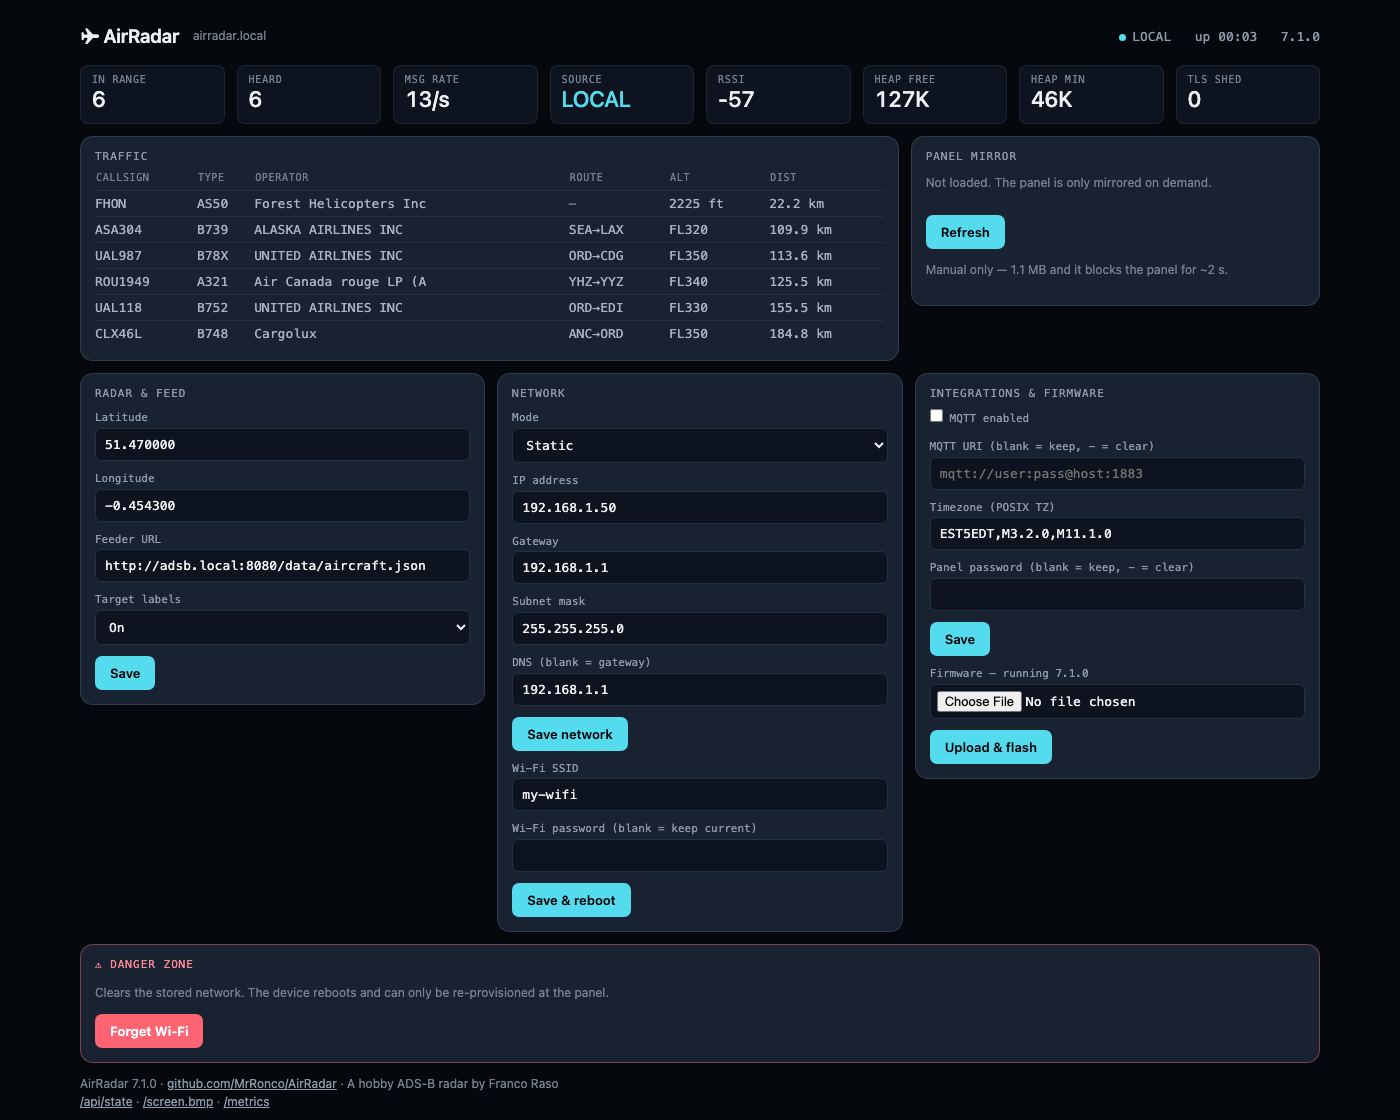
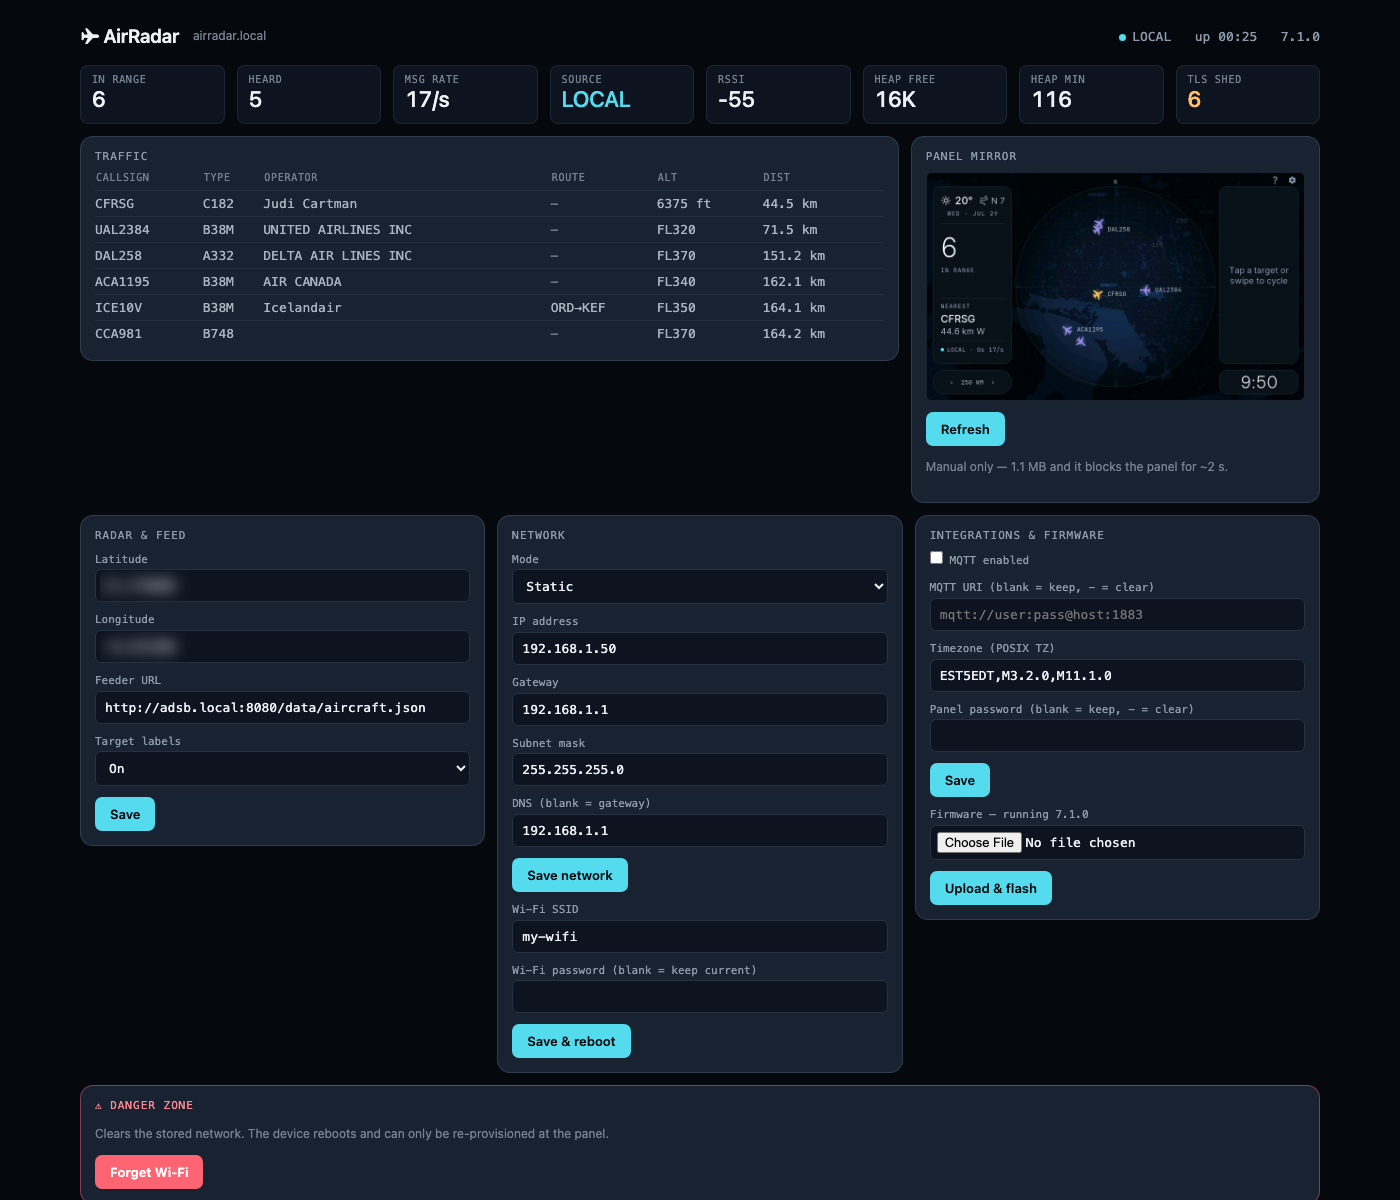
docs: expand hardware, credit Claude, retake console shot with the mirror
Hardware becomes a real section: what the Waveshare ESP32-S3-Touch-LCD-7 is,
why the RGB-parallel bus and 8 MB of PSRAM are the deciding specs rather than
incidental ones, the four quirks worth knowing before buying, and a purchase
link slot for the owner's referral URL.

Adds a "Built with Claude" section. The project was largely implemented with
Claude Code and says so plainly, including the three heap hypotheses that were
confidently wrong. The diagnostic endpoints exist because the firmware had to
be debuggable by something that cannot look at the screen.

Console screenshot retaken with the panel mirror loaded and the coordinate
fields blurred.

Also corrects the roadmap's claim that the heap drain was "neutralised". A
device measured at 27 minutes of uptime sits at 17 KB free with an 8.7 KB
largest block -- below what an mbedTLS handshake needs -- so optional TLS
fetches are shed from then on. The flash caches hide the impact; they do not
remove it. The README now states the real failure mode and what still works.

diff --git a/README.md b/README.md
@@ -71,7 +71,9 @@ phone app — it assumes a desktop and lays out on a fixed 1240 px grid.
 
 <div align="center">
 
-<img src="docs/img/web-console.png" width="880" alt="The AirRadar web console: a status strip of eight live tiles, a traffic table, and configuration forms for radar, network and integrations">
+<img src="docs/img/web-console.png" width="880" alt="The AirRadar web console: a status strip of eight live tiles, a traffic table, the panel mirror, and configuration forms for radar, network and integrations">
+
+<sub>Live, with the panel mirror loaded. Coordinates are blurred; the heap tiles show a device 30 minutes into a boot — see the <a href="#roadmap">known heap drain</a>.</sub>
 
 </div>
 
@@ -110,21 +112,69 @@ class appear in Home Assistant with no YAML.
 
 ## Hardware
 
-One board. Nothing to solder.
+One board. Nothing to solder, nothing to wire, no enclosure required to get started.
 
-| Part | Notes |
+### The Waveshare ESP32-S3-Touch-LCD-7
+
+> **[Buy the board →](https://www.waveshare.com/esp32-s3-touch-lcd-7.htm)**
+> <!-- REFERRAL: replace the URL above with your affiliate link -->
+
+Everything runs on a single **Waveshare ESP32-S3-Touch-LCD-7 (Rev 1.2)** — a 7-inch
+capacitive touchscreen with the microcontroller already on the back of the panel. It
+arrives as one assembled unit for around US$50–60. Plug in USB-C and it boots.
+
+| | |
 |---|---|
-| **Waveshare ESP32-S3-Touch-LCD-7** (Rev 1.2) | ESP32-S3-WROOM-1-N16R8 · 16 MB flash · **8 MB OPI PSRAM** · 800×480 RGB565 · GT911 capacitive touch |
-| USB-C cable | Power and flashing. ~500 mA. |
-| An ADS-B receiver on your LAN | *Optional.* Without one it runs on airplanes.live. A Raspberry Pi running [adsb.im](https://adsb.im) with an RTL-SDR is the usual setup. |
+| **MCU** | ESP32-S3-WROOM-1-**N16R8** — dual-core Xtensa LX7 @ 240 MHz, Wi-Fi + BLE |
+| **Flash** | 16 MB QIO — split 3 MB app / 9.9 MB FATFS for the on-device caches |
+| **PSRAM** | **8 MB OPI** — this is the part that makes the project possible |
+| **Display** | 7" IPS, 800×480, **RGB565 parallel** interface |
+| **Touch** | GT911 five-point capacitive, over I²C |
+| **Also on board** | CH422G I/O expander, CH343P USB-UART, microSD slot, RS485, CAN, battery header, spare I²C/UART headers |
+| **Power** | USB-C, roughly 500 mA in normal use |
+
+**Why this board specifically.** The two things that matter are the *parallel* display
+interface and the 8 MB of PSRAM, and they go together. An SPI display cannot move
+800×480×16 bits fast enough to redraw a live map; the RGB parallel bus can, because the
+panel's DMA scans a framebuffer held in PSRAM continuously. That framebuffer is 768 KB,
+which is why 8 MB of PSRAM rather than 2 MB is the deciding spec. The 16 MB flash then
+leaves nearly 10 MB of FATFS free for the map, logo and route caches — enough that the
+device draws a full base map about five seconds after power-on, before Wi-Fi has even
+associated.
+
+That same DMA is also the project's central engineering constraint: it consumes most of
+the available PSRAM bandwidth all the time, so every pixel the CPU writes is competing
+with the panel refresh. Nearly every performance rule in this codebase traces back to it.
+
+### Quirks worth knowing before you buy
+
+Honest notes, all learned the hard way:
+
+- **The backlight is on/off only.** There is no PWM dimming on this board, so night mode
+  turns the panel off rather than dimming it.
+- **There is a UART slide switch** on the board that gates flashing. In the wrong
+  position you get *"No serial data received"* and nothing else. It catches everyone once.
+- **The GT911 touch address latches at reset** from the INT pin. Left floating it comes
+  up at either 0x5D or 0x14, more or less at random per power cycle. The firmware pins it
+  deterministically, but a board sample with dead touch just needs the alternate address.
+- **On macOS you need the CH343 driver** — `brew install --cask wch-ch34x-usb-serial-driver`,
+  which wants Rosetta on Apple Silicon.
 
 > [!IMPORTANT]
 > **The PSRAM setting is not optional.** It must be **OPI PSRAM**. Set wrong, the
 > framebuffer fails to allocate and you get a black screen or a boot loop. It is the
 > first thing to check on any "the screen is dead" report.
 
-Full pin map, panel timings and the I²C expander details are in
-[`docs/HARDWARE.md`](docs/HARDWARE.md).
+### The rest of the bill of materials
+
+| Part | Notes |
+|---|---|
+| USB-C cable and a 5 V supply | Power and flashing. ~500 mA. |
+| An ADS-B receiver on your LAN | *Optional.* Without one it runs entirely on airplanes.live. A Raspberry Pi running [adsb.im](https://adsb.im) with an RTL-SDR dongle is the usual pairing. |
+| A stand or frame | *Optional.* The board has mounting holes; it sits fine on a desk stand. |
+
+Full pin map, panel timings, the GT911 reset sequence and the I²C expander details are
+in [`docs/HARDWARE.md`](docs/HARDWARE.md).
 
 ---
 
@@ -344,7 +394,17 @@ Still open — see [`docs/ROADMAP.md`](docs/ROADMAP.md):
 - Route ETA and a session-statistics screen
 - A served `/live` page in the web console
 - Shipping the logo pack pre-loaded to FATFS at flash time
-- The remaining internal-heap drain (neutralised, not solved)
+
+**Known open bug: a slow internal-heap drain.** Free internal SRAM falls at roughly
+70 B/s from boot and does not recover. A device measured at 27 minutes of uptime sat at
+17 KB free with a largest free block of 8.7 KB — below the ~16.4 KB that an mbedTLS
+handshake needs — so every optional TLS fetch is shed from then on. The flash caches
+hide most of the impact, since the map, logos and routes all come from FATFS rather than
+the network; what actually stops is weather refresh and first-time logo fetches. Aircraft
+tracking, the local feeder and the web console are unaffected. The drain scales with
+feeder poll count. Three plausible causes were tested and falsified — see
+[`docs/V7_PORT.md`](docs/V7_PORT.md) — and the honest next step is heap tracing rather
+than a fourth guess.
 
 **Aircraft photos are blocked, not deferred.** Planespotters' Photo API terms require
 that image binaries are loaded by the end user's browser and never stored on your own
@@ -353,6 +413,33 @@ itself cannot comply. Rendering them browser-side in the web console *would* be
 compliant, and that is the only path being considered.
 
 ---
+
+## Built with Claude
+
+This project was developed with **[Claude Code](https://claude.com/claude-code)**
+(Anthropic) doing most of the implementation, and there is no point pretending
+otherwise — so here is what that actually looked like.
+
+The work was done against real hardware in a tight loop: flash the board, pull the panel
+over `GET /screen.bmp`, read `GET /metrics`, compare against what was expected, fix,
+repeat. That feedback loop is the reason the diagnostic endpoints exist at all — they
+were built so the firmware could be debugged by something that cannot physically look at
+the screen, and they turned out to be genuinely useful on their own.
+
+It was not magic, and the repo is honest about that. Three separate hypotheses for the
+internal-heap drain were confidently wrong — per-connection TLS leakage, then TIME_WAIT
+socket exhaustion, then missing feeder keep-alive. Each was implemented, measured,
+falsified and reverted. All three are written down in
+[`docs/V7_PORT.md`](docs/V7_PORT.md) precisely so the next person does not spend a
+session rediscovering them. The bug is still open.
+
+[`CLAUDE.md`](CLAUDE.md) at the root is the working context file for that collaboration.
+It is worth reading even if you never touch an LLM: it is the accumulated hardware truth
+of this board — every non-negotiable rule in it cost a real debugging session, and it is
+a more useful document than this README if you are porting to similar hardware.
+
+Design direction, hardware decisions, priorities and the final call on every change
+were the author's.
 
 ## Credits
 
